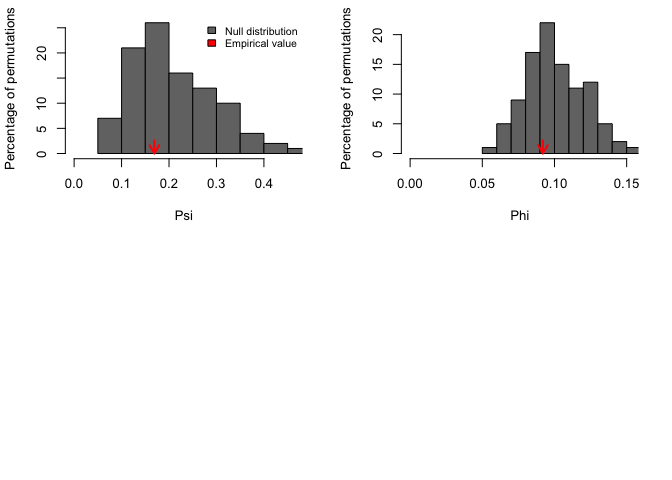
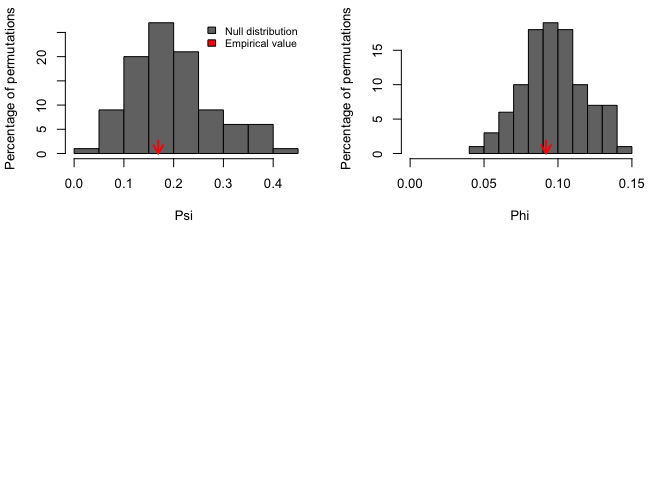
fix readme

diff --git a/README.md b/README.md
@@ -52,8 +52,8 @@ result<-PCAtest(ex0, 100, 100, 0.05, varcorr=FALSE, counter=FALSE, plot=TRUE)
 #> 100 bootstrap replicates, 100 random permutations
 #> ========================================================
 #> 
-#> Empirical Psi = 0.1691, Max null Psi = 0.4629, Min null Psi = 0.0610, p-value = 0.62
-#> Empirical Phi = 0.0920, Max null Phi = 0.1521, Min null Phi = 0.0552, p-value = 0.62
+#> Empirical Psi = 0.1691, Max null Psi = 0.4413, Min null Psi = 0.0488, p-value = 0.61
+#> Empirical Phi = 0.0920, Max null Phi = 0.1485, Min null Phi = 0.0494, p-value = 0.61
 #> 
 #> PCA is not significant!
 ```
@@ -78,16 +78,16 @@ result<-PCAtest(ex05, 100, 100, 0.05, varcorr=FALSE, counter=FALSE, plot=TRUE)
 #> 100 bootstrap replicates, 100 random permutations
 #> ========================================================
 #> 
-#> Empirical Psi = 5.4655, Max null Psi = 0.5552, Min null Psi = 0.0373, p-value = 0
-#> Empirical Phi = 0.5228, Max null Phi = 0.1666, Min null Phi = 0.0432, p-value = 0
+#> Empirical Psi = 5.4655, Max null Psi = 0.4659, Min null Psi = 0.0405, p-value = 0
+#> Empirical Phi = 0.5228, Max null Phi = 0.1526, Min null Phi = 0.0450, p-value = 0
 #> 
-#> Empirical eigenvalue #1 = 3.08098, Max null eigenvalue = 1.58798, p-value = 0
-#> Empirical eigenvalue #2 = 0.63526, Max null eigenvalue = 1.24288, p-value = 1
-#> Empirical eigenvalue #3 = 0.52603, Max null eigenvalue = 1.11571, p-value = 1
-#> Empirical eigenvalue #4 = 0.43234, Max null eigenvalue = 0.98218, p-value = 1
-#> Empirical eigenvalue #5 = 0.3254, Max null eigenvalue = 0.88184, p-value = 1
+#> Empirical eigenvalue #1 = 3.08098, Max null eigenvalue = 1.54294, p-value = 0
+#> Empirical eigenvalue #2 = 0.63526, Max null eigenvalue = 1.25989, p-value = 1
+#> Empirical eigenvalue #3 = 0.52603, Max null eigenvalue = 1.11689, p-value = 1
+#> Empirical eigenvalue #4 = 0.43234, Max null eigenvalue = 0.96902, p-value = 1
+#> Empirical eigenvalue #5 = 0.3254, Max null eigenvalue = 0.89265, p-value = 1
 #> 
-#> PC 1 is significant and accounts for 61.6% (95%-CI:54.5-67.5) of the total variation
+#> PC 1 is significant and accounts for 61.6% (95%-CI:54.5-69.3) of the total variation
 #> 
 #> Variables 1, 2, 3, 4, and 5 have significant loadings on PC 1
 ```
@@ -114,14 +114,14 @@ result<-PCAtest(ex1, 100, 100, 0.05, varcorr=FALSE, counter=FALSE, plot=TRUE)
 #> 100 bootstrap replicates, 100 random permutations
 #> ========================================================
 #> 
-#> Empirical Psi = 20.0000, Max null Psi = 0.4684, Min null Psi = 0.0462, p-value = 0
-#> Empirical Phi = 1.0000, Max null Phi = 0.1530, Min null Phi = 0.0481, p-value = 0
+#> Empirical Psi = 20.0000, Max null Psi = 0.3919, Min null Psi = 0.0453, p-value = 0
+#> Empirical Phi = 1.0000, Max null Phi = 0.1400, Min null Phi = 0.0476, p-value = 0
 #> 
-#> Empirical eigenvalue #1 = 5, Max null eigenvalue = 1.48779, p-value = 0
-#> Empirical eigenvalue #2 = 0, Max null eigenvalue = 1.27443, p-value = 1
-#> Empirical eigenvalue #3 = 0, Max null eigenvalue = 1.10132, p-value = 1
-#> Empirical eigenvalue #4 = 0, Max null eigenvalue = 0.97791, p-value = 1
-#> Empirical eigenvalue #5 = 0, Max null eigenvalue = 0.8728, p-value = 1
+#> Empirical eigenvalue #1 = 5, Max null eigenvalue = 1.45252, p-value = 0
+#> Empirical eigenvalue #2 = 0, Max null eigenvalue = 1.24552, p-value = 1
+#> Empirical eigenvalue #3 = 0, Max null eigenvalue = 1.1067, p-value = 1
+#> Empirical eigenvalue #4 = 0, Max null eigenvalue = 0.97962, p-value = 1
+#> Empirical eigenvalue #5 = 0, Max null eigenvalue = 0.86539, p-value = 1
 #> 
 #> PC 1 is significant and accounts for 100% (95%-CI:100-100) of the total variation
 #> 
@@ -149,18 +149,18 @@ result<-PCAtest(ants, 100, 100, 0.05, varcorr=FALSE, counter=FALSE, plot=TRUE)
 #> 100 bootstrap replicates, 100 random permutations
 #> ========================================================
 #> 
-#> Empirical Psi = 10.9186, Max null Psi = 2.4506, Min null Psi = 0.4333, p-value = 0
-#> Empirical Phi = 0.5099, Max null Phi = 0.2416, Min null Phi = 0.1016, p-value = 0
+#> Empirical Psi = 10.9186, Max null Psi = 2.2939, Min null Psi = 0.6062, p-value = 0
+#> Empirical Phi = 0.5099, Max null Phi = 0.2337, Min null Phi = 0.1201, p-value = 0
 #> 
-#> Empirical eigenvalue #1 = 3.84712, Max null eigenvalue = 2.19363, p-value = 0
-#> Empirical eigenvalue #2 = 1.52017, Max null eigenvalue = 1.73926, p-value = 0.18
-#> Empirical eigenvalue #3 = 0.70634, Max null eigenvalue = 1.37476, p-value = 1
-#> Empirical eigenvalue #4 = 0.41356, Max null eigenvalue = 1.11327, p-value = 1
-#> Empirical eigenvalue #5 = 0.34001, Max null eigenvalue = 0.99515, p-value = 1
-#> Empirical eigenvalue #6 = 0.14515, Max null eigenvalue = 0.7793, p-value = 1
-#> Empirical eigenvalue #7 = 0.02765, Max null eigenvalue = 0.65133, p-value = 1
+#> Empirical eigenvalue #1 = 3.84712, Max null eigenvalue = 2.19305, p-value = 0
+#> Empirical eigenvalue #2 = 1.52017, Max null eigenvalue = 1.64822, p-value = 0.18
+#> Empirical eigenvalue #3 = 0.70634, Max null eigenvalue = 1.46417, p-value = 1
+#> Empirical eigenvalue #4 = 0.41356, Max null eigenvalue = 1.12564, p-value = 1
+#> Empirical eigenvalue #5 = 0.34001, Max null eigenvalue = 0.9726, p-value = 1
+#> Empirical eigenvalue #6 = 0.14515, Max null eigenvalue = 0.80097, p-value = 1
+#> Empirical eigenvalue #7 = 0.02765, Max null eigenvalue = 0.60076, p-value = 1
 #> 
-#> PC 1 is significant and accounts for 55% (95%-CI:44.2-64.2) of the total variation
+#> PC 1 is significant and accounts for 55% (95%-CI:41.3-65.3) of the total variation
 #> 
 #> Variables 1, 2, 3, 4, 5, and 7 have significant loadings on PC 1
 ```
@@ -175,14 +175,18 @@ result<-PCAtest(ants, 100, 100, 0.05, varcorr=FALSE, counter=FALSE, plot=TRUE)
 ## References
 
 Gleason, T. C. and Staelin R. (1975) A proposal for handling missing
-data. Psychometrika, 40, 229–252. Jackson, J. E. (1991) A User’s Guide
-to Principal Components. John Wiley & Sons, New York, USA. Ringnér, M.
-(2008) What is principal component analysis? Nature Biotechnology, 26,
-303–304. ter Braak, C. F. J. (1990) Update notes: CANOCO (version 3.1).
-Agricultural Mattematic Group, Report LWA-88-02, Wagningen, Netherlands.
+data. Psychometrika, 40, 229–252.  
+Jackson, J. E. (1991) A User’s Guide to Principal Components. John Wiley
+& Sons, New York, USA.  
+Ringnér, M. (2008) What is principal component analysis? Nature
+Biotechnology, 26, 303–304.  
+ter Braak, C. F. J. (1990) Update notes: CANOCO (version 3.1).
+Agricultural Mattematic Group, Report LWA-88-02, Wagningen,
+Netherlands.  
 Vieira, V. M. N. C. S. (2012) Permutation tests to estimate
 significances on Principal Components Analysis. Computational Ecology
-and Software, 2, 103–123. Wong, M. K. L. and Carmona, C. P. (2021)
-Including intraspecific trait variability to avoid distortion of
-functional diversity and ecological inference: Lessons from natural
-assemblages. Methods in Ecology and Evolution. .
+and Software, 2, 103–123.  
+Wong, M. K. L. and Carmona, C. P. (2021) Including intraspecific trait
+variability to avoid distortion of functional diversity and ecological
+inference: Lessons from natural assemblages. Methods in Ecology and
+Evolution. .
